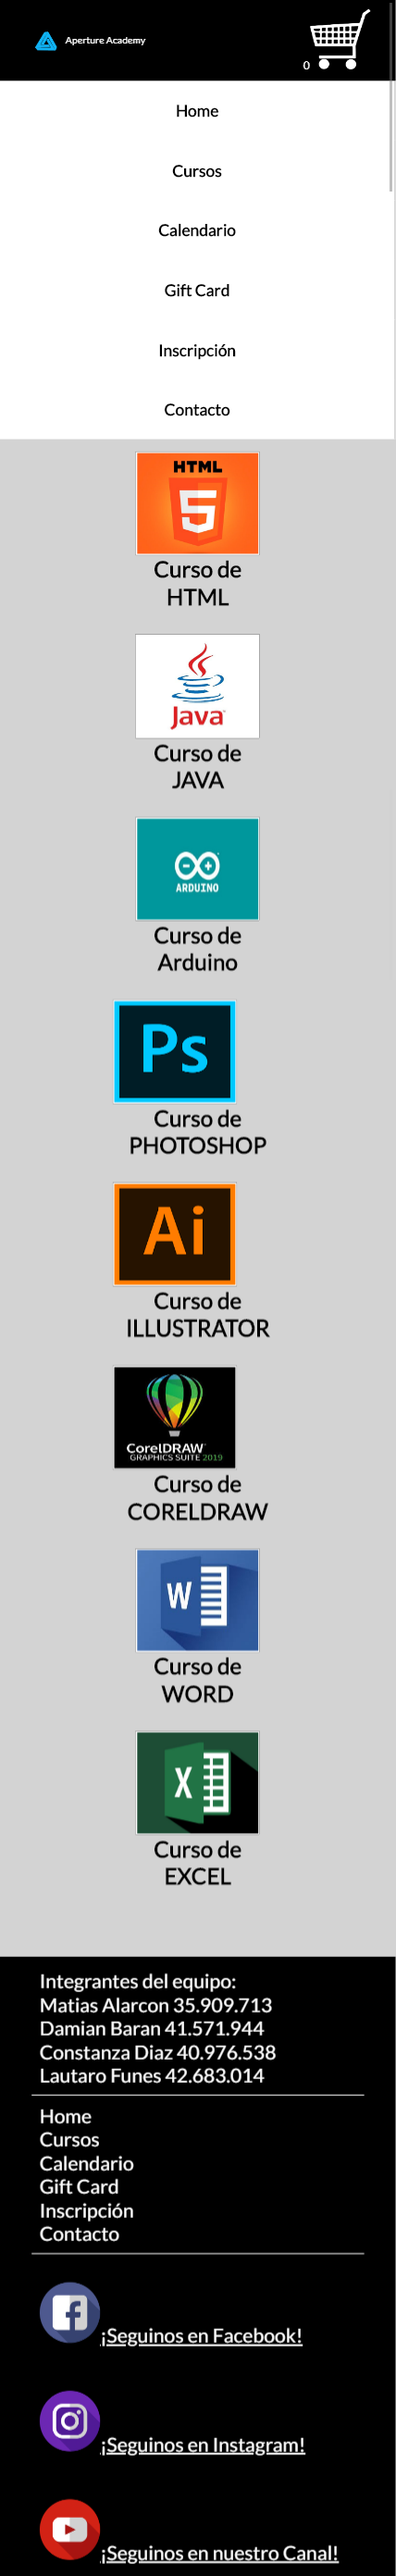
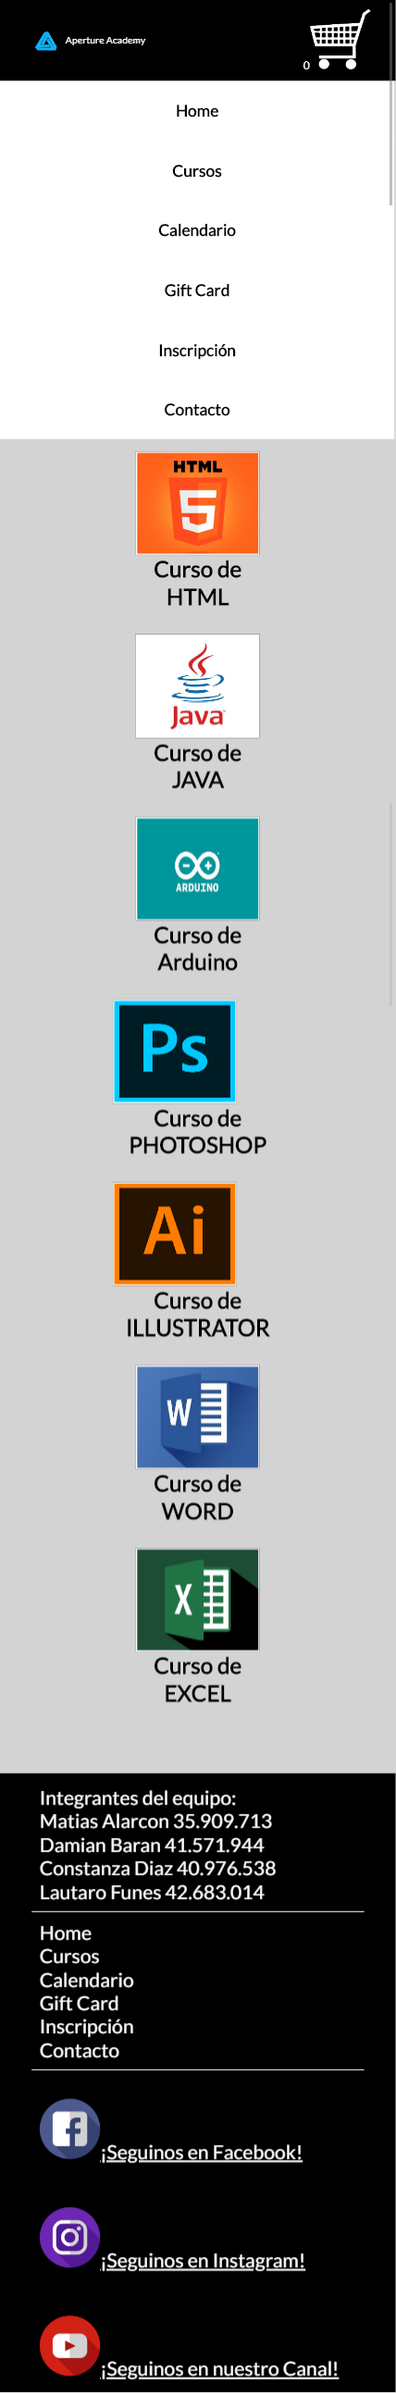
final

Changed region(s): [[0.0, 0.0309, 1.0, 1.0], [0.7897, 0.0, 0.9112, 0.0309], [0.0911, 0.0, 0.1519, 0.0309]]

diff --git a/Cursos.html b/Cursos.html
@@ -79,13 +79,6 @@
                 <h1 class="titulo2">Curso de ILLUSTRATOR</h1>
             </div>
 
-            <div class="cajaCursos">
-
-                <form action="cursos/Curso-CorelDraw.html">
-                    <input type="image" class="foto" src="img/CorelDraw.png" href="cursos/Curso-CorelDraw.html">
-                </form>
-                <h1 class="titulo2">Curso de CORELDRAW</h1>
-            </div>
         </section>
 
         <section class="cursos">
